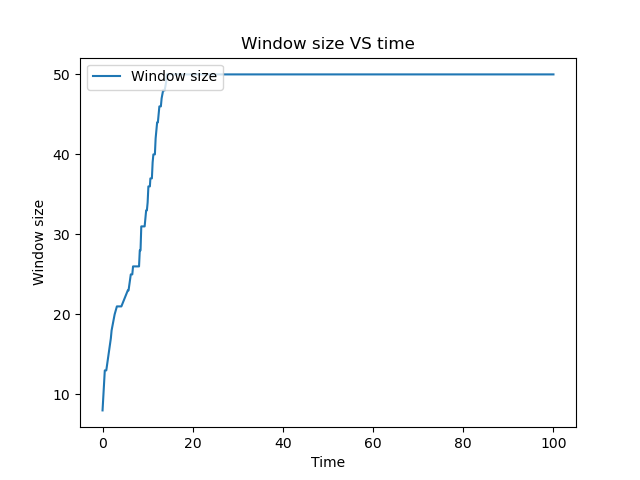
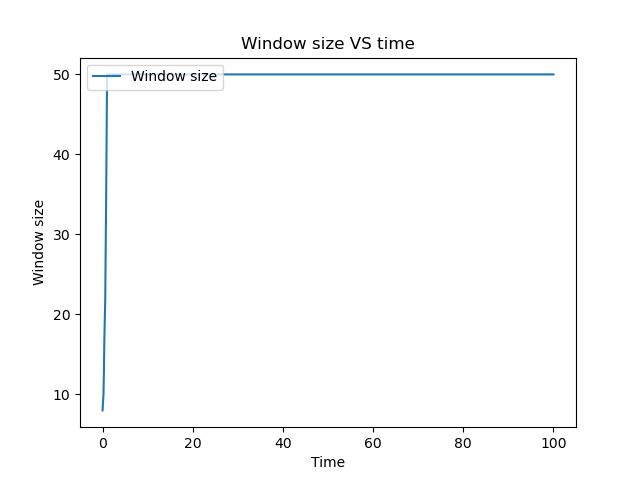
complete congestiong control

Changed region(s): [[0.1562, 0.1875, 0.2188, 0.8125], [0.2188, 0.2188, 0.25, 0.5], [0.25, 0.1875, 0.2812, 0.2188]]

diff --git a/udp.py b/udp.py
@@ -904,139 +904,145 @@ SENT_TICK = False
 congestion_lock = threading.Lock()
 # https://www.cs.cmu.edu/~srini/15-441/F07/project3/project3.pdf
 def congestion_receiver(sock, total_packets, a, congestion_buffer):
-    global WINDOW_SIZE, SSTHRESH, IN_TRANSIT, LAST_ACK, AVG_RTT, STOP_THREAD, Counter
+    global WINDOW_SIZE, SSTHRESH, IN_TRANSIT, LAST_ACK, AVG_RTT, STOP_THREAD
     global ACKS_ARR, LOSS_EVENT, MAX_RTT, TIME_STAMP_ARR, CONGESTION_AVOIDANCE # arr
-    global WINDOW_SIZE_LIST, SENT_TICK
+    global WINDOW_SIZE_LIST, SENT_TICK, congestion_lock
+    waited = 0
 
-    retransmission_time = 0.06
     ACKS_ARR = [0]*(total_packets+1)
-    
-    while (LAST_ACK + 1 < total_packets): # there are still packets yet to be sent
-        if (IN_TRANSIT > 0):  # if there are packets in transit
+    while (LAST_ACK + 1 < total_packets and not STOP_THREAD): # there are still packets yet to be sent
+        if (IN_TRANSIT > 0 and not STOP_THREAD):  # if there are packets in transit
             r, _, _ = select.select([sock],[],[],0)
             if (r):
-                data, addr = sock.recvfrom(1472)
+                data, addr = sock.recvfrom(1500)
                 data = a.unpack(data)
                 ack, seq = data[0], data[1]
-                ACKS_ARR[seq] += 1 # count num of acks received for a seq
+                if (ack == 3):
+                    STOP_THREAD = True
+                    break
                 
-                if (ack): # valid ack
+                ACKS_ARR[seq] += 1 # count num of acks received for a seq
+
+                if (ACKS_ARR[seq] >= 3): # latest packet received had 3 acks
+                    LOSS_EVENT = True # assume all packets after seq is lost
+                    IN_TRANSIT = 0
+                    continue
+                
+                if (ack == 1  and ACKS_ARR[seq] == 1): # valid ack
                     SENT_TICK = True
                     TIME_STAMP_ARR[seq][1] = time.time() - TIME_STAMP_ARR[seq][0] # record RTT
-                    AVG_RTT = (AVG_RTT+TIME_STAMP_ARR[seq][1])/(LAST_ACK+1) # 
-
-                    # if (TIME_STAMP_ARR[seq][1] > (max(retransmission_time, AVG_RTT))):
-                    if (TIME_STAMP_ARR[seq][1] > AVG_RTT):
-                        # IN_TRANSIT = 0
-                        # congestion_lock.acquire()
-                        CONGESTION_AVOIDANCE = True
-                        # congestion_lock.release()
-                    else:
-                        # congestion_lock.acquire()
-                        CONGESTION_AVOIDANCE = False
-                        # congestion_lock.release()
-
-                    if (ACKS_ARR[seq] >= 3): # latest packet received had 3 acks
-                        # congestion_lock.acquire()
-                        LOSS_EVENT = True # assume all packets after seq is lost
-                        IN_TRANSIT = 0
-                        # congestion_lock.release()
-                        continue
+                    AVG_RTT = (AVG_RTT+TIME_STAMP_ARR[seq][1])/(LAST_ACK+1)
+                    heur = AVG_RTT+AVG_RTT+AVG_RTT+0.01
                     
+                    if (TIME_STAMP_ARR[seq][1] > heur): CONGESTION_AVOIDANCE = True
+                    else: CONGESTION_AVOIDANCE = False
+                    # print("RECEIVED:",seq)
+                    IN_TRANSIT -= 1
+
+                    # print (LAST_ACK)
                     congestion_lock.acquire()
                     if (LAST_ACK + 1 == seq):
                         LAST_ACK += 1
-                        IN_TRANSIT -= 1
-                    else: IN_TRANSIT = 0
+                        LAST_ACK += waited
+                        waited = 0
+                    else: 
+                        waited += 1
+                        IN_TRANSIT = 0
+                    
                     congestion_lock.release()
 
-                else: # faulty packet
-                    LOSS_EVENT = True
+                if (ack == 0):
                     starter = time.time()
                     sock.send(congestion_buffer[seq])  # resend packet in current index
-
                     SENT_TICK = True
                     TIME_STAMP_ARR[seq][0] = starter
-
-                    try:
-                        WINDOW_SIZE_LIST.append(WINDOW_SIZE)
-                        WINDOW_SIZE_TIME.append(starter) 
-                    except:
-                        pass
-    
+                    LOSS_EVENT = True
+                    WINDOW_SIZE_LIST.append(WINDOW_SIZE)
+                    WINDOW_SIZE_TIME.append(starter) 
+                
     print("All packets received")
     STOP_THREAD = True
 
 def congestion_sender(sock, total_packets, retransmission_time, congestion_buffer):
-    global WINDOW_SIZE, LAST_ACK, TIME_STAMP_ARR, RANDOM_ERROR
-    global IN_TRANSIT, AVG_RTT, STOP_THREAD, SENT_TICK
+    global WINDOW_SIZE, LAST_ACK, TIME_STAMP_ARR, RANDOM_ERROR, CONGESTION_AVOIDANCE
+    global IN_TRANSIT, AVG_RTT, STOP_THREAD, SENT_TICK, congestion_lock
 
     TIME_STAMP_ARR = [[None,None] for i in range(0,total_packets)]
-
-    while (LAST_ACK + 1 < total_packets): # still have packets to send
+    
+    while (LAST_ACK + 1 < total_packets and not STOP_THREAD): # still have packets to send
         congestion_lock.acquire()
         packetCount = LAST_ACK + IN_TRANSIT + 1
         congestion_lock.release()
-        # if (random.random() <= RANDOM_ERROR): times = random.randint(2,3)
-        
-        if (IN_TRANSIT < WINDOW_SIZE and packetCount < total_packets):
-            # for i in (0,times):
-            # starter = time.time()
+
+        while (IN_TRANSIT < WINDOW_SIZE and packetCount < total_packets and not STOP_THREAD):
             sock.send(congestion_buffer[packetCount])  # send packet in current index
             starter = time.time()
-
-            try:
-                WINDOW_SIZE_LIST.append(WINDOW_SIZE)
-                WINDOW_SIZE_TIME.append(starter) 
-            except:
-                pass
-            
             TIME_STAMP_ARR[packetCount][0] = starter  # start timer
             IN_TRANSIT += 1  # increment num packets sent
+            packetCount += 1
+            WINDOW_SIZE_LIST.append(WINDOW_SIZE)
+            WINDOW_SIZE_TIME.append(starter) 
+            SENT_TICK = True
+
+        if (IN_TRANSIT > 0):
+            found = False
+            heur = AVG_RTT+AVG_RTT+AVG_RTT+0.01
+            count = 0
             
-            # if latest rtt took longer than avg
-            # if (IN_TRANSIT > 0 and not TIME_STAMP_ARR[packetCount][1]):
-            #     congestion_lock.acquire()
-            #     if (time.time() - TIME_STAMP_ARR[packetCount][0] > (max(retransmission_time, AVG_RTT))):
-            #         IN_TRANSIT = 0
-            #         CONGESTION_AVOIDANCE = True
-            #     congestion_lock.release()
+            congestion_lock.acquire()
+            start = LAST_ACK+1
+            end = start + IN_TRANSIT
+            congestion_lock.release()
+            stopper = int((end-start)/2)
+            
+            for idx in range(start, end):
+                if (STOP_THREAD): break
+                try:
+                    if (not TIME_STAMP_ARR[idx][1] and (time.time() - TIME_STAMP_ARR[idx][0]) > heur): # not ack and timed out
+                        print("RESEND:",idx)
+                        sock.send(congestion_buffer[idx])
+                        TIME_STAMP_ARR[idx][0] = time.time()
+                        CONGESTION_AVOIDANCE = True
+                        found = True
+                        # break
+                    else:
+                        count += 1
+                        if (count == max(stopper,5)): 
+                            break
+                except:
+                    pass
+            if (not found):
+                congestion_lock.acquire()
+                LAST_ACK += stopper
+                congestion_lock.release()
+
     print("Experiment congestion control sent all packets")
-    STOP_THREAD = True
+    # STOP_THREAD = True
 
+    
 def handler():
-    global CONGESTION_AVOIDANCE
-    global LOSS_EVENT
-    global WINDOW_SIZE
-    global AVG_RTT
-    global LAST_ACK
-    global STOP_THREAD
-    global SENT_TICK
-    global Counter
-    global SEND_LIST_seq, SEND_LIST_time, ACK_list_time, ACK_LIST_seq
+    global CONGESTION_AVOIDANCE, LOSS_EVENT, WINDOW_SIZE, AVG_RTT, LAST_ACK
+    global Counter, STOP_THREAD, SENT_TICK
 
-    while True:
+    while True and not STOP_THREAD:
         if (WINDOW_SIZE > SSTHRESH): CONGESTION_AVOIDANCE = True
-
+        
         if (CONGESTION_AVOIDANCE):
             if (SENT_TICK and WINDOW_SIZE < SSTHRESH):
-                WINDOW_SIZE += 1
-                Counter = 2
+                WINDOW_SIZE = min(50, WINDOW_SIZE + 1)
+                Counter = 1
             SENT_TICK = False
         else:
-            if SENT_TICK: 
-                if (WINDOW_SIZE < SSTHRESH):
-                    WINDOW_SIZE += Counter
-                    Counter += 1
+            if SENT_TICK and WINDOW_SIZE < SSTHRESH:
+                WINDOW_SIZE = min(50, WINDOW_SIZE + Counter)
+                Counter += 1
                 SENT_TICK = False
-        
+            
         if (LOSS_EVENT):
-            WINDOW_SIZE = max(0.5*WINDOW_SIZE, 2)
+            WINDOW_SIZE = max(0.5*WINDOW_SIZE, 10)
             SENT_TICK = False
             LOSS_EVENT = False
-
-        if STOP_THREAD:
-            break
+            Counter = 1
         
 def congestion_control():
     global SSTHRESH, RANDOM_ERROR, WINDOW_SIZE_LIST, WINDOW_SIZE_TIME
@@ -1078,21 +1084,27 @@ def congestion_control():
         # timeout heuristic: 2*RTT + 1*processing_time
 
         print("Experiment received acknowledgement, experiment started")
+        sock.setsockopt(socket.SOL_SOCKET, socket.SO_SNDBUF,total_packets*1500)
+
         receiver_thread = threading.Thread(
             target=congestion_receiver, args=(sock, total_packets, a, congestion_buffer))
         sender_thread = threading.Thread(
             target=congestion_sender, args=(sock, total_packets, TIMEOUT, congestion_buffer))
         handler_thread = threading.Thread(target=handler, args=())
+        #resender_thread = threading.Thread(target=resender, args=(sock, congestion_buffer, total_packets))
 
         try:
             start = time.time()
             receiver_thread.start()
             sender_thread.start()
             handler_thread.start()
+            #resender_thread.start()
 
             receiver_thread.join()
             sender_thread.join()
             handler_thread.join()
+            #resender_thread.join()   
+
             end = time.time() - start
             print(end)
         except Exception as e:
@@ -1100,7 +1112,6 @@ def congestion_control():
             print(e)
             sock.close()
         end = time.time() - start
-
 
         old_min = WINDOW_SIZE_TIME[0]
         old_max = WINDOW_SIZE_TIME[-1]
@@ -1122,10 +1133,7 @@ def congestion_control():
         plt.savefig("./plots/congestion_window.png")
     
     print("Experiment over")
-    print(end)
     time.sleep(20)
-
-
 
 if __name__ == "__main__":
     # no_frills_udp_client()

diff --git a/udp_server.py b/udp_server.py
@@ -401,14 +401,14 @@ def congestion_udp_server():
     while True:
         try:    
             print("Status: awaiting experiment")
-            data, addr = sock.recvfrom(1472)
+            data, addr = sock.recvfrom(1500)
             
             if (data):
                 init, total_packets, lost_percent = a.unpack(data)
                 print("Status: received init from", addr)
                 sock.sendto("1".encode(), addr)
             
-            sock.setsockopt(socket.SOL_SOCKET, socket.SO_SNDBUF,total_packets*1472)
+            sock.setsockopt(socket.SOL_SOCKET, socket.SO_SNDBUF,total_packets*1500)
             print("Status: experiment started")
             
             count = 0
@@ -424,23 +424,31 @@ def congestion_udp_server():
                 # totally lost, random
                 # take longer
                 # sent multiple times
-                # if (network.calculate_checksum(data) != checkSum or random.random() < 0.1):
-                #     if (random.randint(1, 2) == 1):
-                #         continue
-                #     else:
-                #         error_packet = a.pack(0, sequenceNum, 0)
-                #         sock.sendto(error_packet, addr)
-                #     continue
-                
-                received.add(sequenceNum)
-                # print(len(received))
-                ack_packet = a.pack(1, sequenceNum, 0)
-                sock.sendto(ack_packet, addr)
-                
-                # print(len(received))
+                if (network.calculate_checksum(data) != checkSum or random.random() < 0.5):
+                    type = random.randint(1, 3)
+                    if (type == 1):
+                        continue
+                    elif (type == 2):
+                        error_packet = a.pack(0, sequenceNum, 0)
+                        sock.sendto(error_packet, addr)
+                    else:
+                        received.add(sequenceNum)
+                        ack_packet = a.pack(1, sequenceNum, 0)
+                        sock.sendto(ack_packet, addr)
+                        sock.sendto(ack_packet, addr)
+                        sock.sendto(ack_packet, addr)
+                else:
+                    received.add(sequenceNum)
+                    # print(len(received))
+                    ack_packet = a.pack(1, sequenceNum, 0)
+                    sock.sendto(ack_packet, addr)
+                    
+                print(len(received))
                 if (len(received) == (total_packets - 1)): 
                     print(len(received))
                     print("Status: all packets received, ending experiment")
+                    ack_packet = a.pack(3, sequenceNum, 0)
+                    sock.sendto(ack_packet, addr)
                     sock.settimeout(3600)
                     received = set()
                     total_packets = 0
@@ -451,6 +459,7 @@ def congestion_udp_server():
                 print("Status: have not received anything in 5 secs, ending experiment")
                 sock.settimeout(3600)
                 break
+        break
 
 if __name__ == "__main__":
     # reodering_udp_scenario()

diff --git a/test.py b/test.py
@@ -2,7 +2,7 @@
         # curr = LAST_ACK + IN_TRANSIT + 1
         # timer = time.time()
         # heur = AVG_RTT+AVG_RTT+AVG_RTT+0.01
-
+        
         # # congestion_lock.acquire()   
         # for idx in range(LAST_ACK + 1, curr):
         #     try:
